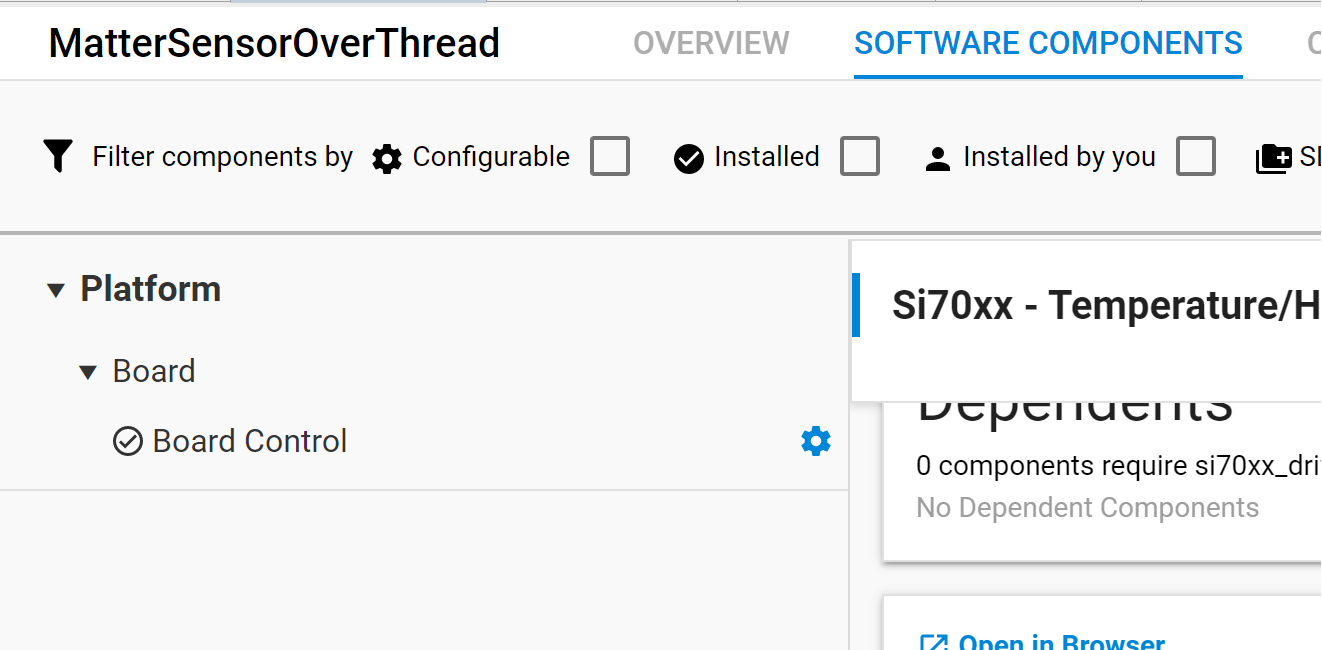
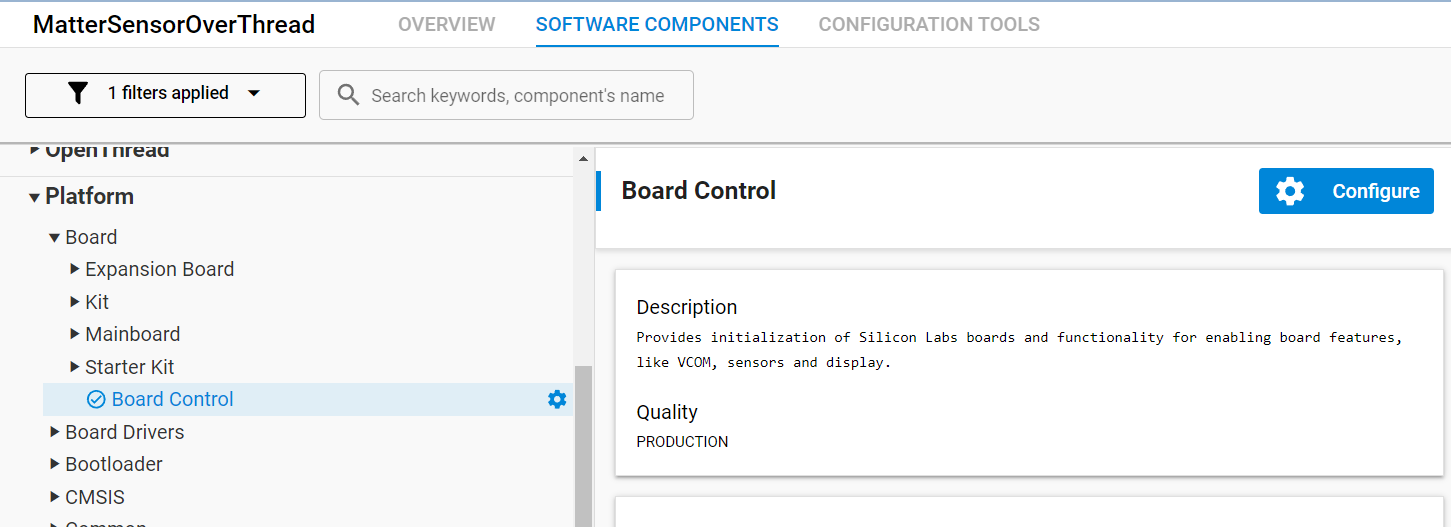
Updates

diff --git a/README.md b/README.md
@@ -5,7 +5,7 @@
 
 This article shows how to modify the "Matter - SoC Sensor over Thread" example project with support for some of the sensors found on the Silicon Labs EFR32xG24 Dev Kit Board.
 
-This article is based on Silicon Labs Gecko SDK version 4.4.0 with Silicon Labs Matter 2.2.0 extensions.
+This article is based on Simplicity SDK Suite v2024.6.0 with Silicon Labs Matter 2.3.0 extensions (based on Matter version 1.3).
 
 ![Silicon Labs EFR32xG24 Dev Kit Board](./images/xg24-dk2601b.png)
 
@@ -15,57 +15,41 @@ This article is based on Silicon Labs Gecko SDK version 4.4.0 with Silicon Labs 
 - Install Simplicity Studio V5 from Silicon Labs.
 - Silicon Labs EFR32xG24 Dev Kit Board (BRD2601B).
 
-This article assumes that you have already installed Simplicity Studio V5 and the Gecko SDK 4.4.0.
+This article assumes that you have already installed Simplicity Studio V5 and the Simplicity SDK Suite v2024.6.0.
+
+## Create a new project based on the "Matter - SoC Sensor over Thread with external Bootloader" Solution Example
+
+Start by creating a new project in Simplicity Studio V5 by selecting the "Matter - SoC Sensor over Thread with external Bootloader" example solution project and click "Create":
+
+![Matter - SoC Sensor over Thread with external Bootloader example solution](./images/matter-sensor-thread-example-solution.png)
+
+This is a good starting point as it already implements a fully functional Matter over Thread device. Unfortunately it only supports some simulated sensors and not the actual sensors found on the develkopment kit board.
 
 ## Prepare the bootloader for Over-The-Air firmware upgrades
 
 See this article for more details on Creating a Gecko Bootloader for Use in Matter OTA Software Update: https://docs.silabs.com/matter/2.0.0/matter-overview-guides/ota-bootloader
 
-Find the "Bootloader - SoC Internal Storage (single image on 1536kB device)" example project and create a new project from it. This bootloader is for the Silicon Labs xG24-DK2601B EFR32xG24 Dev Kit, which has 1536kB Flash.
-
-![Bootloader](./images/bootloader.png)
-
 Open the .slcp file in your bootloader project and select "SOFTWARE COMPONENTS".
 
-Install the "GBL Compression (LZMA)" component under Platform->Bootloader->Core:
+Make sure that the "GBL Compression (LZMA)" component under Platform->Bootloader->Core is installed:
 
 ![GBL Compression (LZMA)](./images/bootloader-core-gbl-compression-lzma.png)
 
 Build the bootloader project, find the .s37 image file (under the Binaries folder) and flash it to your Silicon Labs Dev Kit.
 
-## Create the initial project based on the "Matter - SoC Sensor over Thread" example project
-
-Start by creating a new project in Simplicity Studio V5 by selecting the "Matter - SoC Sensor over Thread" example project and click "Create":
-
-![Matter - SoC Sensor over Thread Example Project](./images/matter-sensor-thread-example-project.png)
-
-This is a good starting point as it already implements a fully functional Matter over Thread device. Unfortunately it only supports some simulated sensors and not the actual sensors found on the develkopment kit board.
-
 ## Change the default sensor type
 
 When you create the sensor project it defaults to Occupancy Sensor. To switch between
-the sensors, uninstall the 'Matter Occupancy Sensor'/current sensor component and install the
-respective sensor component to enable it. One sensor component should be enabled for the app to build.
+the sensors, uninstall the install the
+"Temperature Sensor Support" to enable it.
 
 Open the .slcp file in your project and select "SOFTWARE COMPONENTS".
 
-Navigate to "Silicon Labs Matter v2.2.0->Platform->Sensors:
+Navigate to "Silicon Labs Matter v2.3.0->Platform->Sensors:
 
 ![Sensor Components](./images/platform-sensor-components.png)
 
-Select the "Matter Temperature Sensor" component and click "Install".
-
-Select the "Matter Temperature Sensor" component and click "Install".
-
-When asked click on "Replace Matter Occupancy Sensor with Matter Temperature Sensor":
-
-![Replace Matter Occupancy Sensor](./images/replace-occupancy-sensor-component.png)
-
 Select "Temperature Sensor Support" and click "Install".
-
-Select the "Temperature Sensor Support" component and click "Install".
-
-Select "Matter Occupancy Sensor" and click "Uninstall".
 
 ## Add support for on-board sensors
 
@@ -73,7 +57,7 @@ Open the .slcp file in your project and select "SOFTWARE COMPONENTS".
 
 ### Enable the hardware sensors
 
-Locate the "Board Control" component under Platform->Board, select it and click on the Configure icon.
+Locate the "Board Control" component under Platform->Board->Starter Kit, select it and click on the Configure icon.
 
 ![Board Control](./images/platform-board-control.png)
 
@@ -92,15 +76,23 @@ Install the following drivers found under Platform->Board Drivers:
 
 ### Add Matter Endpoints and Clusters for added sensor types
 
-Open the config->common folder and open the file "temperature-thread-app.zap".
+Open the config->common folder and open the file "sensor-thread-app.zap".
 
-Select "Endpoint - 1" in the ZCL editor and select "Edit" as shown below.
+By default the following endpoints are created:
 
-![Select Edit Endpoint](./images/select-edit-endpoint.png)
+![Default Endpoints](./images/default-endpoints.png)
 
-Endpoint-1 should already be correctly setup for a Temperature sensor as shown below:
+Select "Endpoint - 1" in the ZCL editor and select "Delete" as shown below.
 
-![Select Edit Endpoint](./images/endpoint-1.png)
+![Select Delete Endpoint](./images/delete-endpoint-1.png)
+
+Select "Endpoint - 2" in the ZCL editor and select "Edit" as shown below.
+
+![Select Edit Endpoint](./images/select-edit-endpoint-2.png)
+
+Change the Endpoint setting for "Endpoint - 2" to 1 as shown below and click Save:
+
+![Select Edit Endpoint](./images/endpoint-1-settings.png)
 
 In the list of clusters on the right panel, expand the "Measurement & Sensing" section and find the "Temperature Measurement" cluster and click on the settings icon.
 
@@ -110,7 +102,11 @@ Click on the NULL button in the Default field for the MeasuredValue attribute.
 
 ![MeasuredValue Default](./images/measured-value-default.png)
 
-Click Cancel.
+Click the X in the upper right corner.
+
+Select "Endpoint - 3" in the ZCL editor and select "Delete" as shown below.
+
+![Select Delete Endpoint](./images/delete-endpoint-3.png)
 
 #### Add Endpoint for Humidity Sensor
 
@@ -136,9 +132,13 @@ Fill in the information shown below and click "Save".
 
 ![Create Endpoint](./images/create-endpoint-4.png)
 
-#### Add support for the Unit Localization Cluster
+#### Add support for the Unit Localization Cluster in "Endpoint - 0"
+
+Select "Endpoint - 0" in the ZCL editor and enter "unit loc" in the search box:
 
 ![Add Unit Localization Cluster](./images/add-unit-localization-cluster.png)
+
+Change the Enable field to "Server" and click on the Configure icon.
 
 Add TemperatureUnit and set it to 1 = Celsius.
 
@@ -404,11 +404,15 @@ BMP3xxPressureSensor pressureSensor;
 Si70xxTemperatureHumiditySensor temperatureHumiditySensor;
 VEML6035AmbientLightSensor illuminanceSensor;
 
-void SilabsSensors::InitSensor(void)
+CHIP_ERROR SilabsSensors::Init()
 {
+  CHIP_ERROR err = CHIP_NO_ERROR;
+
   illuminanceSensor.Init();
   pressureSensor.Init();
   temperatureHumiditySensor.Init();
+
+  return err;
 }
 
 void UpdateRelativeHumidityMeasurement()
